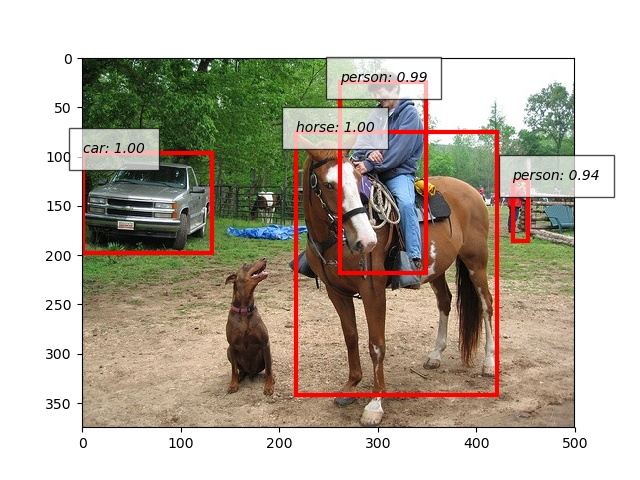
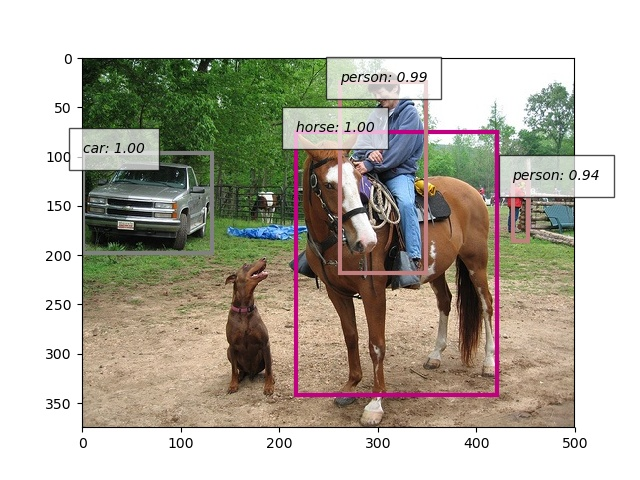
Fix IOU

Changed region(s): [[0.4375, 0.1562, 0.8438, 0.8438], [0.125, 0.3125, 0.3438, 0.5312]]

diff --git a/src/anchor_target_generator.py b/src/anchor_target_generator.py
@@ -29,38 +29,40 @@ class AnchorTargetCreator(object):
                 (anchors[:, 3] < im_width + self.allowed_border))[0]
         anchors = anchors[inds_inside, :]
 
-        labels = xp.empty((len(inds_inside),), dtype=xp.int32)
+        labels = np.empty((len(inds_inside),), dtype=np.int32)
         labels.fill(-1)
 
         # Overlaps between the anchors and the ground-truth boxes
         # TODO: implement overlap calculating method
-        overlaps = bbox_overlaps(xp.ascontiguousarray(anchors, dtype=xp.float),
-                                 xp.ascontiguousarray(gt_boxes, dtype=xp.float))
+        overlaps = bbox_overlaps(anchors, gt_boxes)
         argmax_overlaps = overlaps.argmax(axis=1)
-        max_overlaps = overlaps[xp.arange(len(inds_inside)), argmax_overlaps]
+        max_overlaps = overlaps[np.arange(len(inds_inside)), argmax_overlaps]
         gt_argmax_overlaps = overlaps.argmax(axis=0)
         gt_max_overlaps = overlaps[gt_argmax_overlaps,
-                                   xp.arange(overlaps.shape[1])]
-        gt_argmax_overlaps = xp.where(overlaps == gt_max_overlaps)[0]
+                                   np.arange(overlaps.shape[1])]
+        gt_argmax_overlaps = np.where(overlaps == gt_max_overlaps)[0]
 
         # Assign foreground label: for each ground-truth, anchor with highest overlap
+        labels[max_overlaps < cfg.TRAIN.RPN_NEGATIVE_OVERLAP] = 0
         labels[gt_argmax_overlaps] = 1
 
         # Assign foreground label: above threshold IOU
         labels[max_overlaps >= cfg.TRAIN.RPN_POSITIVE_OVERLAP] = 1
 
         num_fg = int(cfg.TRAIN.RPN_FG_FRACTION * cfg.TRAIN.RPN_BATCHSIZE)
-        fg_inds = xp.where(labels == 1)[0]
+        fg_inds = np.where(labels == 1)[0]
         if len(fg_inds) > num_fg:
             disable_inds = npr.choice(fg_inds, size=(len(fg_inds) - num_fg), replace=False)
             labels[disable_inds] = -1
 
-        num_bg = cfg.TRAIN.RPN_BATCHSIZE - xp.sum(labels == 1)
-        bg_inds = xp.where(labels == 0)[0]
+        num_bg = cfg.TRAIN.RPN_BATCHSIZE - np.sum(labels == 1)
+        bg_inds = np.where(labels == 0)[0]
         if len(bg_inds) > num_bg:
             disable_inds = npr.choice(bg_inds, size=(len(bg_inds) - num_bg), replace=False)
             labels[disable_inds] = -1
 
+        bbox_targets = bbox_transform(anchors, gt_boxes[argmax_overlaps])
+        '''
         bbox_targets = xp.zeros((len(inds_inside), 4), dtype=xp.float32)
         bbox_targets = _compute_targets(anchors, gt_boxes[argmax_overlaps, :])
 
@@ -79,11 +81,12 @@ class AnchorTargetCreator(object):
             negative_weights = (1 - cfg.TRAIN.RPN_POSITIVE_WEIGHT) / xp.sum(labels == 0)
         bbox_outside_weights[labels == 1, :] = positive_weights
         bbox_outside_weights[labels == 0, :] = negative_weights
+        '''
 
         labels = _unmap(labels, num_anchors, inds_inside, fill=-1)
         bbox_targets = _unmap(bbox_targets, num_anchors, inds_inside, fill=0)
-        bbox_inside_weights = _unmap(bbox_inside_weights, num_anchors, inds_inside, fill=0)
-        bbox_outside_weights = _unmap(bbox_outside_weights, num_anchors, inds_inside, fill=0)
+        # bbox_inside_weights = _unmap(bbox_inside_weights, num_anchors, inds_inside, fill=0)
+        # bbox_outside_weights = _unmap(bbox_outside_weights, num_anchors, inds_inside, fill=0)
 
         if xp != np:
             bbox_targets = cuda.to_gpu(bbox_targets)

diff --git a/src/proposal_target_generator.py b/src/proposal_target_generator.py
@@ -12,12 +12,10 @@ class ProposalTargetCreator(object):
     def __call__(self, proposals, gt_boxes, labels,
                  loc_normalize_means=(0., 0., 0., 0.),
                  loc_normalize_stds=(0.1, 0.1, 0.2, 0.2)):
-        xp = cuda.get_array_module(proposals)
         proposals = cuda.to_cpu(proposals)
         gt_boxes = cuda.to_cpu(gt_boxes)
         labels = cuda.to_cpu(labels)
 
-        zeros = np.zeros((gt_boxes.shape[0], 1), dtype=gt_boxes.dtype)
         all_rois = np.concatenate((proposals, gt_boxes), axis=0)
         num_images = 1
         rois_per_image = cfg.TRAIN.BATCH_SIZE / num_images
@@ -28,20 +26,6 @@ class ProposalTargetCreator(object):
                 rois_per_image, self._num_classes, labels)
         return rois, bbox_targets, gt_labels
 
-# Bounding box regression target: (class, tx, ty, tw, th)
-def _get_bbox_regression_labels(bbox_target_data, num_classes):
-    class_name = bbox_target_data[:, 0]
-    bbox_targets = np.zeros((class_name.size, 4 * num_classes), dtype=np.float32)
-    bbox_inside_weights = np.zeros(bbox_targets.shape, dtype=np.float32)
-    inds = np.where(class_name > 0)[0]
-    for ind in inds:
-        cls = class_name[ind]
-        start = 4 * cls
-        end = start + 4
-        bbox_targets[inds, start:end] = bbox_target_data[ind, 1:]
-        bbox_inside_weights[ind, start:end] = cfg.TRAIN.BBOX_INSIDE_WEIGHTS
-    return bbox_targets, bbox_inside_weights
-
 def _compute_targets(ex_rois, gt_rois):
     targets = bbox_transform(ex_rois, gt_rois)
     if cfg.TRAIN.BBOX_NORMALIZE_TARGETS_PRECOMPUTED:
@@ -51,9 +35,7 @@ def _compute_targets(ex_rois, gt_rois):
 
 def _sample_rois(all_rois, gt_boxes, fg_rois_per_image,
                  rois_per_image, num_classes, labels):
-    overlaps = bbox_overlaps(
-            np.ascontiguousarray(all_rois, dtype=np.float),
-            np.ascontiguousarray(gt_boxes, dtype=np.float))
+    overlaps = bbox_overlaps(all_rois, gt_boxes)
     gt_assignment = overlaps.argmax(axis=1)
     max_overlaps = overlaps.max(axis=1)
     gt_labels = labels[gt_assignment] + 1
@@ -88,6 +70,7 @@ def _sample_rois(all_rois, gt_boxes, fg_rois_per_image,
     bbox_targets = _compute_targets(
             rois, gt_boxes[gt_assignment[keep_inds]])
 
+    xp = cuda.get_array_module(rois)
     if xp != np:
         rois = cuda.to_gpu(rois)
         bbox_targets = cuda.to_gpu(bbox_targets)

diff --git a/src/test.py b/src/test.py
@@ -1,7 +1,7 @@
 import argparse
 import matplotlib.pyplot as plt
 import chainer
-from pascalvoc import voc_detection_label_names
+from pascalvoc import voc_detection_label_names, voc_semantic_segmentation_label_colors
 from faster_network import FasterRCNNVGG16
 from utils.image import *
 
@@ -46,7 +46,8 @@ def draw_bbox(img, bboxes, labels=None, scores=None, label_names=None, ax=None):
         height = bbox[2] - bbox[0]
         width = bbox[3] - bbox[1]
         ax.add_patch(plt.Rectangle(
-            xy, width, height, fill=False, edgecolor='red', linewidth=3))
+            xy, width, height, fill=False,
+            edgecolor=np.array(voc_semantic_segmentation_label_colors[labels[i] + 1]) / 255., linewidth=3))
 
         caption = list()
         if labels is not None and label_names is not None:

diff --git a/src/config.py b/src/config.py
@@ -42,7 +42,7 @@ __C.TRAIN.BBOX_NORMALIZE_TARGETS = True
 # Inside weights
 __C.TRAIN.BBOX_INSIDE_WEIGHTS = (1., 1., 1., 1.)
 
-__C.TRAIN.BBOX_NORMALIZE_TARGETS_PRECOMPUTED = False
+__C.TRAIN.BBOX_NORMALIZE_TARGETS_PRECOMPUTED = True
 __C.TRAIN.BBOX_NORMALIZE_MEANS = (0., 0., 0., 0.)
 __C.TRAIN.BBOX_NORMALIZE_STDS = (0.1, 0.1, 0.2, 0.2)
 
